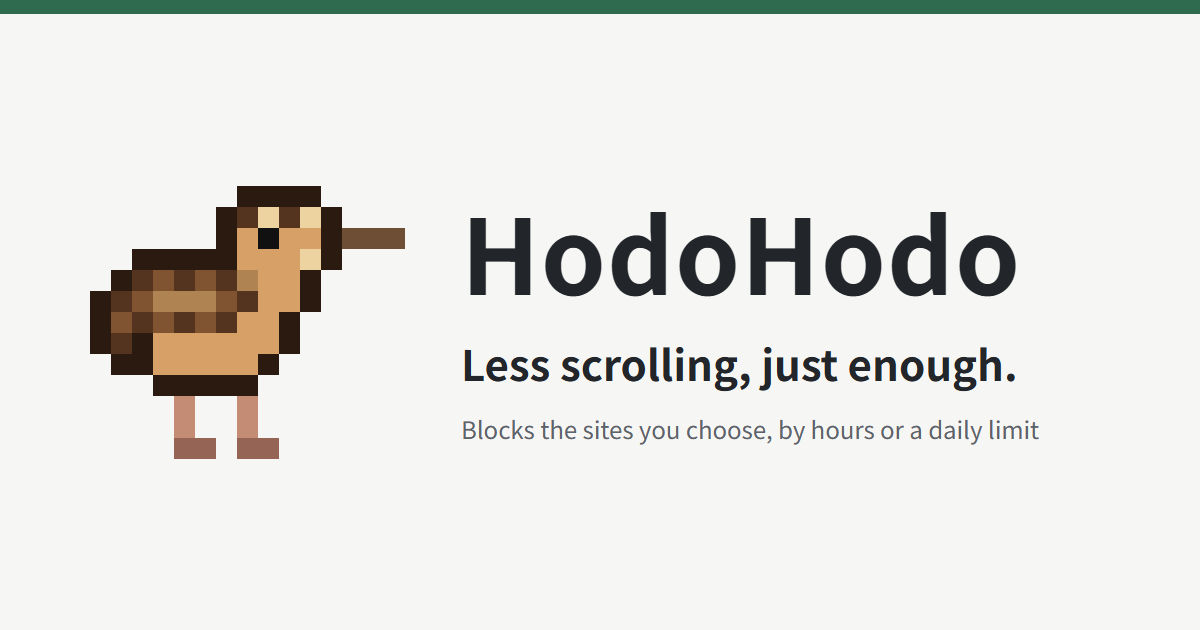
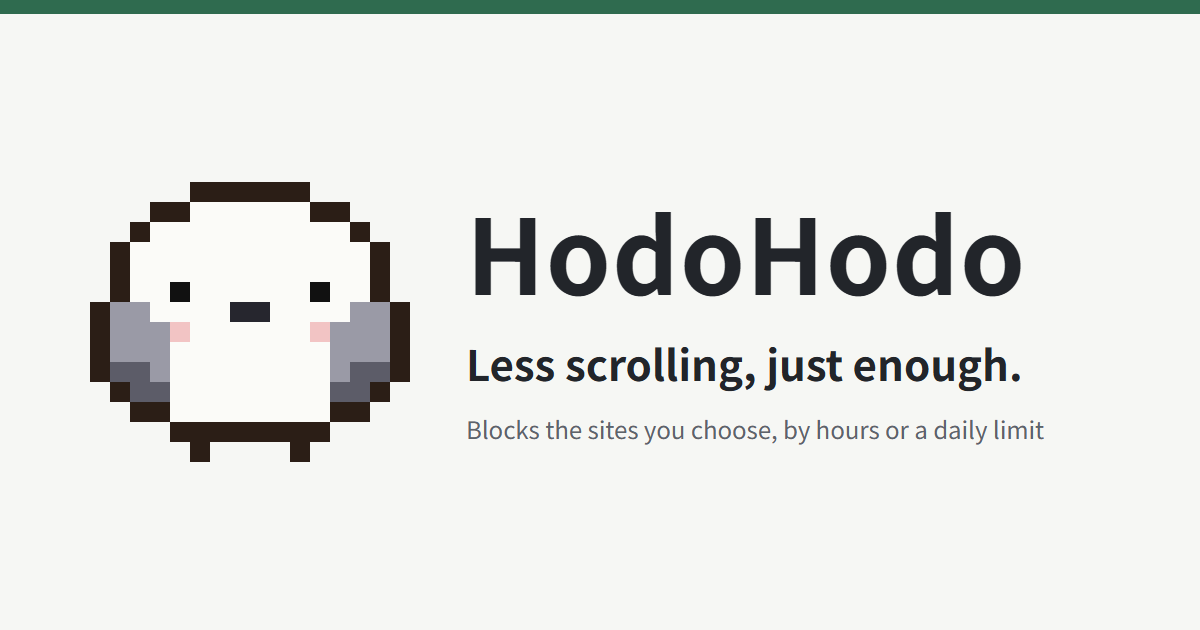
紹介ページとプライバシーポリシーを更新（数え方・木や枝・名前のもとになった鳥）、OG 画像をシマエナガに

diff --git a/index.html b/index.html
@@ -4,10 +4,10 @@
 <meta charset="utf-8">
 <meta name="viewport" content="width=device-width, initial-scale=1">
 <title>HodoHodo｜決めたサイトを、時間帯か1日の上限で止める Chrome・Edge の拡張機能</title>
-<meta name="description" content="動画や SNS など、自分で決めたサイトを、時間帯か「1日30分まで」のような上限で止める Chrome・Edge の拡張機能です。止まる少し前に、枝が生えて鳥が集まってきます。">
+<meta name="description" content="動画や SNS など、自分で決めたサイトを、時間帯か「1日30分まで」のような上限で止める Chrome・Edge の拡張機能です。止まる少し前に、木や枝が生えて鳥が集まってきます。">
 <meta property="og:type" content="website">
 <meta property="og:title" content="HodoHodo">
-<meta property="og:description" content="決めたサイトを、時間帯か1日の上限で止める拡張機能。止まる少し前に、枝が生えて鳥が集まってきます。">
+<meta property="og:description" content="決めたサイトを、時間帯か1日の上限で止める拡張機能。止まる少し前に、木や枝が生えて鳥が集まってきます。">
 <meta property="og:url" content="https://ikasumi-774.github.io/focus-blocker/">
 <meta property="og:image" content="https://ikasumi-774.github.io/focus-blocker/og-ja.png">
 <meta property="og:locale" content="ja_JP">
@@ -73,7 +73,7 @@ footer ul { list-style: none; padding: 0; display: flex; flex-wrap: wrap; gap: 8
 
 <header>
   <h1>HodoHodo</h1>
-  <p class="lead">動画や SNS など、自分で決めたサイトを、時間帯か「1日30分まで」のような上限で止める Chrome・Edge の拡張機能です。止まる少し前に、見ているページに枝が生えて、鳥が集まってきて知らせます。</p>
+  <p class="lead">動画や SNS など、自分で決めたサイトを、時間帯か「1日30分まで」のような上限で止める Chrome・Edge の拡張機能です。止まる少し前に、見ているページに木や枝が生えて、鳥が集まってきて知らせます。</p>
 </header>
 
 <p class="status">いまは Chrome ウェブストアと Microsoft Edge アドオンに出す準備をしています。公開したら、ここに入れ方を書きます。</p>
@@ -84,21 +84,21 @@ footer ul { list-style: none; padding: 0; display: flex; flex-wrap: wrap; gap: 8
   <ul>
     <li>止めたいサイトを一覧に入れ、サイトごとに「1日○分まで」の上限と、止める時間帯（例：平日の 9:00〜17:00）を決められます。</li>
     <li>ツールバーの HodoHodo のボタンから、開いているサイトをそのまま一覧に足せます。窓では、今日あと何分使えるかが分かります。</li>
-    <li>止まる少し前に、ページの下に「あと○分で止まります」の帯が出て、ページに枝が生え、鳥が集まってきます（くわしくは下の「止まる前のお知らせ」）。</li>
+    <li>止まる少し前に、ページの下に「あと○分で止まります」の帯が出て、ページに木や枝が生え、鳥が集まってきます（くわしくは下の「止まる前のお知らせ」）。</li>
     <li>どうしてもあと少しのときは、窓の［5分だけ延ばす］で延ばせます。全部のサイトで、1日に3回までです。</li>
     <li>止まったサイトを開くと、鳥たちが待っています。昔からのことわざや、鳥のひと言が出ます。</li>
     <li>今日どのサイトを何分使ったかと、過去7日のグラフを、設定画面で見られます。</li>
     <li>鳥がいらないときは、シンプルモードにできます。お知らせは文字だけで出ます。</li>
   </ul>
-  <p>時間を数えるのは、ブラウザの窓が前にあって、一覧に入れたサイトのタブを開いているあいだです。2分のあいだ操作が無くても、そのタブが音を出していれば数えます（動画を見ているだけの時間）。タブをミュートしても、動画が流れていれば数えます。後ろのタブや、画面をロックしているあいだは数えません。</p>
+  <p>時間を数えるのは、一覧に入れたサイトのタブが画面に出ているあいだです。何も触っていなくても数えます。ウィンドウの大きさや、ほかのアプリが前にあるかは関係ありません。最小化したウィンドウや後ろのタブは、音が出ているときだけ数えます。同じサイトを2つのタブで開いても、2倍には数えません。画面のロック中とスリープ中は数えません。</p>
 </section>
 
 <section>
   <h2>止まる前のお知らせ</h2>
-  <p>止まる時刻の1分前（設定で3分前・5分前・しない、も選べます）から、そのサイトのタブの上に、下の文字の帯と、画面の端から生える枝と集まってくる鳥を重ねて出します。止まる時刻に近づくほど、枝と鳥が増えて、画面のおよそ3割が埋まります。時間になると、止めた画面に切り替わります。</p>
+  <p>止まる時刻の1分前（設定で3分前・5分前・しない、も選べます）から、そのサイトのタブの上に、下の文字の帯と、画面の下から生える木や画面の端から生える枝、集まってくる鳥を重ねて出します。止まる時刻に近づくほど、木や枝と鳥が増えて、画面のおよそ3割が埋まります。時間になると、止めた画面に切り替わります。</p>
   <ul>
     <li>ページの中身（文字・入力・見ている内容）は読みません。ページの文字や色も変えません。</li>
-    <li>帯・枝・鳥は上に重ねるだけです。鳥・枝・氷の上のクリックは下のページに届きませんが、ほかの所と文字の帯の上のクリックは、そのまま下のページに届きます。</li>
+    <li>帯・木・枝・鳥は上に重ねるだけです。鳥・木・枝・氷の上のクリックは下のページに届きませんが、ほかの所と文字の帯の上のクリックは、そのまま下のページに届きます。</li>
     <li>出すのは、一覧に入れて許可したサイトのタブだけです。許可は、そのサイトを足したときに、そのサイトの分だけ聞きます。</li>
     <li>鳥の絵は拡張機能の中に入っているもので、外からは読み込みません。</li>
   </ul>
@@ -111,7 +111,7 @@ footer ul { list-style: none; padding: 0; display: flex; flex-wrap: wrap; gap: 8
 
 <section>
   <h2>鳥</h2>
-  <p>HodoHodo のアイコンの鳥は、北アメリカにいるアメリカヤマシギです。体を前後にゆらしながら、ゆっくり歩きます。急がず、ほどほどに。この歩き方をお手本にしました。</p>
+  <p>HodoHodo という名前は、北アメリカにいるアメリカヤマシギの歩き方から付けました。体を前後にゆらしながら、ゆっくり歩きます。急がず、ほどほどに。</p>
   <p>出てくる鳥は、設定画面で次の9種類から選べます。いくつか選ぶと、止めた画面と止まる前のお知らせでは、まじって出てきます。ツールバーの窓では、開くたびにどれか1羽が出ます。</p>
   <p>アメリカヤマシギ・シマエナガ・桜文鳥・白文鳥・スズメ・セキセイインコ・オカメインコ・ペンギン・ハシビロコウ</p>
 </section>

diff --git a/en.html b/en.html
@@ -4,10 +4,10 @@
 <meta charset="utf-8">
 <meta name="viewport" content="width=device-width, initial-scale=1">
 <title>HodoHodo | Block the sites you choose, by hours or a daily limit, in Chrome and Edge</title>
-<meta name="description" content="A Chrome and Edge extension that blocks the sites you choose, such as video or social media, by hours of the day or by a daily limit such as 30 minutes. Shortly before a site is blocked, branches grow and birds gather.">
+<meta name="description" content="A Chrome and Edge extension that blocks the sites you choose, such as video or social media, by hours of the day or by a daily limit such as 30 minutes. Shortly before a site is blocked, trees and branches grow and birds gather.">
 <meta property="og:type" content="website">
 <meta property="og:title" content="HodoHodo">
-<meta property="og:description" content="Blocks the sites you choose, by hours or a daily limit. Shortly before a site is blocked, branches grow and birds gather.">
+<meta property="og:description" content="Blocks the sites you choose, by hours or a daily limit. Shortly before a site is blocked, trees and branches grow and birds gather.">
 <meta property="og:url" content="https://ikasumi-774.github.io/focus-blocker/en.html">
 <meta property="og:image" content="https://ikasumi-774.github.io/focus-blocker/og-en.png">
 <meta property="og:locale" content="en_US">
@@ -73,7 +73,7 @@ footer ul { list-style: none; padding: 0; display: flex; flex-wrap: wrap; gap: 8
 
 <header>
   <h1>HodoHodo</h1>
-  <p class="lead">A Chrome and Edge extension that blocks the sites you choose, such as video or social media, by hours of the day or by a daily limit such as 30 minutes. Shortly before a site is blocked, branches grow on the page you're viewing and birds gather to let you know.</p>
+  <p class="lead">A Chrome and Edge extension that blocks the sites you choose, such as video or social media, by hours of the day or by a daily limit such as 30 minutes. Shortly before a site is blocked, trees and branches grow on the page you're viewing and birds gather to let you know.</p>
 </header>
 
 <p class="status">We are preparing to publish it on the Chrome Web Store and Microsoft Edge Add-ons. Installation steps will appear here once it is available.</p>
@@ -84,21 +84,21 @@ footer ul { list-style: none; padding: 0; display: flex; flex-wrap: wrap; gap: 8
   <ul>
     <li>Add the sites you want to limit, and set a daily limit and blocked hours (for example, weekdays from 9:00 to 17:00) for each one.</li>
     <li>Add the site you're on with the HodoHodo button in the toolbar. The popup shows how many minutes you have left today.</li>
-    <li>Shortly before a site is blocked, a "Blocking in … min" bar appears at the bottom of the page, branches grow, and birds gather (see "The notice before blocking" below).</li>
+    <li>Shortly before a site is blocked, a "Blocking in … min" bar appears at the bottom of the page, trees and branches grow, and birds gather (see "The notice before blocking" below).</li>
     <li>Need a little longer? Press "Extend 5 min" in the popup. You can do this up to 3 times a day, across all sites.</li>
     <li>When you open a blocked site, birds are waiting for you, with an old proverb or a few words from the bird.</li>
     <li>See how many minutes you spent on each site today, and a 7-day chart, on the settings page.</li>
     <li>Don't want the birds? Turn on Simple mode, and notices appear as text only.</li>
   </ul>
-  <p>Time is counted while the browser window is in front and the active tab is one of the sites on your list. If you are inactive for 2 minutes, it keeps counting only while that tab is playing sound (for example, while you just watch a video). Muting the tab does not stop the count if a video is still playing. Background tabs and time while your screen is locked are not counted.</p>
+  <p>Time is counted while a tab of a site on your list is showing on screen, even if you aren't touching anything. Window size doesn't matter, and neither does another app being in front. In a minimized window or a background tab, it counts only while sound is playing. Opening the same site in two tabs doesn't count double. Time while your screen is locked or your computer is asleep is not counted.</p>
 </section>
 
 <section>
   <h2>The notice before blocking</h2>
-  <p>From 1 minute before a site is blocked (you can choose 3 or 5 minutes, or Off, in the settings), a text bar at the bottom, branches growing from the edges of the screen, and gathering birds are shown on top of that site's tabs. The closer it gets, the more branches and birds appear, until they cover about 30% of the screen. When the time comes, the tab switches to the blocked page.</p>
+  <p>From 1 minute before a site is blocked (you can choose 3 or 5 minutes, or Off, in the settings), a text bar at the bottom, trees growing from the bottom of the screen, branches growing from its edges, and gathering birds are shown on top of that site's tabs. The closer it gets, the more trees, branches, and birds appear, until they cover about 30% of the screen. When the time comes, the tab switches to the blocked page.</p>
   <ul>
     <li>HodoHodo does not read the page (its text, what you type, or what you're viewing), and does not change the page's text or colors.</li>
-    <li>The bar, branches, and birds are only drawn on top. Clicks on the birds, branches, and ice don't reach the page; clicks anywhere else, including on the bar, still go through to the page underneath.</li>
+    <li>The bar, trees, branches, and birds are only drawn on top. Clicks on the birds, trees, branches, and ice don't reach the page; clicks anywhere else, including on the bar, still go through to the page underneath.</li>
     <li>It appears only on tabs of sites you added and allowed. Access is asked for one site at a time, when you add that site.</li>
     <li>The bird pictures are bundled with the extension. Nothing is loaded from outside.</li>
   </ul>
@@ -111,7 +111,7 @@ footer ul { list-style: none; padding: 0; display: flex; flex-wrap: wrap; gap: 8
 
 <section>
   <h2>The birds</h2>
-  <p>The bird in the HodoHodo icon is an American woodcock, from North America. It walks slowly, rocking its body back and forth. Never in a hurry, just enough. I took that walk as the model.</p>
+  <p>HodoHodo is named after the walk of the American woodcock, a bird from North America. It walks slowly, rocking its body back and forth. Never in a hurry, just enough. In Japanese, "hodohodo" means "in moderation."</p>
   <p>You can choose from these 9 birds on the settings page. Choose several, and they appear together on the blocked page and in the notice before blocking. In the toolbar popup, one of them appears each time you open it.</p>
   <p>American Woodcock, Long-tailed Tit (Shima-enaga), Java Sparrow, White Java Sparrow, Tree Sparrow, Budgerigar, Cockatiel, Penguin, Shoebill</p>
 </section>

diff --git a/privacy.html b/privacy.html
@@ -34,8 +34,8 @@
 <li>［5分だけ延ばす］を使った記録：その日に使った回数と、どのサイトをいつまで延ばしたか。</li>
 <li>有料版の状態：ためしを始めた時刻、ライセンスキー、有効化の番号、最後に確かめた時刻。</li>
 </ul>
-<p>本拡張は、見たページの URL の全体や中身、入力した文字は記録しません。使った時間を数えるために、前面のタブの URL（一覧に入れたサイトのときだけ読めます）からドメイン名を取り出し、そのタブが音を出しているか、操作が続いているかを、その場で見ます。URL そのものは保存しません。これらは本拡張を削除すると消えます。</p>
-<p>止まる前のお知らせ（「あと○分で止まります」の帯と、枝・氷・集まってくる鳥の絵）は、一覧に入れて許可したサイトのタブにだけ、止まる時刻の前の数分間（設定で1・3・5分前）だけ、ページの上に重ねて出します。このとき、ページの中身（文字・入力・見ている内容）は読まず、送りません。ページの文字や色は変えません。鳥・枝・氷の絵の上のクリックは下のページに届きませんが、ほかの所のクリックはそのまま下のページに届きます。鳥の絵は本拡張の中に入っているもので、外からは読み込みません。サイトへのアクセスの許可は、そのサイトを一覧に足したときに、そのサイトの分だけ求めます。</p>
+<p>本拡張は、見たページの URL の全体や中身、入力した文字は記録しません。使った時間を数えるために、開いているタブの URL（一覧に入れたサイトのときだけ読めます）からドメイン名を取り出し、そのタブが前面か、ウィンドウが最小化されているか、音を出しているか、画面がロックされているかを、その場で見ます。URL そのものは保存しません。これらは本拡張を削除すると消えます。</p>
+<p>止まる前のお知らせ（「あと○分で止まります」の帯と、木・枝・氷・集まってくる鳥の絵）は、一覧に入れて許可したサイトのタブにだけ、止まる時刻の前の数分間（設定で1・3・5分前）だけ、ページの上に重ねて出します。このとき、ページの中身（文字・入力・見ている内容）は読まず、送りません。ページの文字や色は変えません。鳥・木・枝・氷の絵の上のクリックは下のページに届きませんが、ほかの所のクリックはそのまま下のページに届きます。鳥の絵は本拡張の中に入っているもので、外からは読み込みません。サイトへのアクセスの許可は、そのサイトを一覧に足したときに、そのサイトの分だけ求めます。</p>
 <p>設定画面のサイトの一覧に出すアイコンは、ブラウザがすでに持っているサイトのアイコンを使います。アイコンを出すために、外へ何かを送ることはありません。</p>
 
 <h2>2. 外への送信</h2>
@@ -73,8 +73,8 @@
 <li>Use of "Extend 5 min": how many times you used it today, and which site was extended until when.</li>
 <li>Paid-version status: when the trial started, the license key, the activation ID, and when the key was last checked.</li>
 </ul>
-<p>The Extension does not record full page URLs, page contents, or anything you type. To count time, it reads the URL of the active tab (readable only for sites you added), takes the domain name from it, and checks at that moment whether that tab is playing sound and whether you are active. The URL itself is not saved. All of this is deleted when you remove the Extension.</p>
-<p>The notice before blocking (a "Blocking in … min" bar and pictures of branches, ice, and gathering birds) is shown only on tabs of sites you added and allowed, only during the few minutes before that site is blocked (1, 3, or 5 minutes, as you set), on top of the page. The Extension does not read or send the page's content (its text, what you type, or what you are viewing). It does not change the page's text or colors. Clicks on the bird, branch, and ice pictures don't reach the page; clicks anywhere else go through to the page underneath. The bird pictures are bundled with the Extension; nothing is loaded from outside. Access to a site is requested for that site only, when you add it to the list.</p>
+<p>The Extension does not record full page URLs, page contents, or anything you type. To count time, it reads the URLs of open tabs (readable only for sites you added), takes the domain name from them, and checks at that moment whether each tab is in front, whether its window is minimized, whether it is playing sound, and whether your screen is locked. The URL itself is not saved. All of this is deleted when you remove the Extension.</p>
+<p>The notice before blocking (a "Blocking in … min" bar and pictures of trees, branches, ice, and gathering birds) is shown only on tabs of sites you added and allowed, only during the few minutes before that site is blocked (1, 3, or 5 minutes, as you set), on top of the page. The Extension does not read or send the page's content (its text, what you type, or what you are viewing). It does not change the page's text or colors. Clicks on the bird, tree, branch, and ice pictures don't reach the page; clicks anywhere else go through to the page underneath. The bird pictures are bundled with the Extension; nothing is loaded from outside. Access to a site is requested for that site only, when you add it to the list.</p>
 <p>The site icons on the settings page come from icons your browser already has. Nothing is sent anywhere to show them.</p>
 
 <h2>2. What is sent off your PC</h2>
